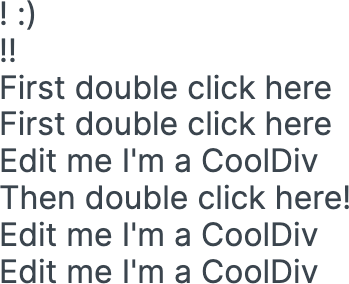
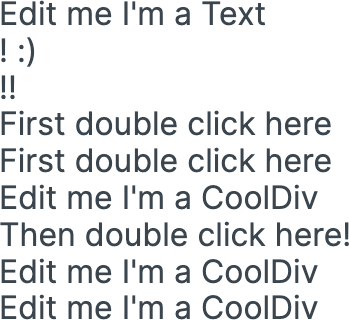
[ecu] Edit text on component App

diff --git a/app/src/App.tsx b/app/src/App.tsx
@@ -39,7 +39,7 @@ The app, splendid!
 function App(props: AppPropsType) {
   return (
     <>
-      <Text data-ecu="hxtLeUVgve:0">Edit me I'm a Text</Text>
+      <Text data-ecu="hxtLeUVgve:0">Edit me I'm a Text!</Text>
       <Text data-ecu="hxtLeUVgve:1">! :)</Text>
       <Text data-ecu="hxtLeUVgve:2">!!</Text>
       <Text data-ecu="hxtLeUVgve:3">First double click here</Text>
